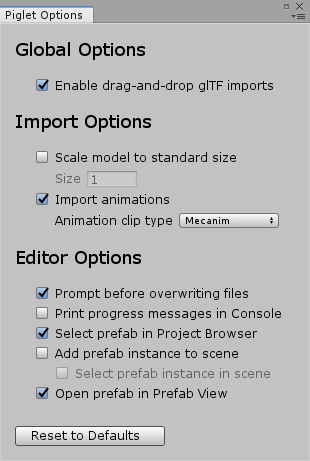
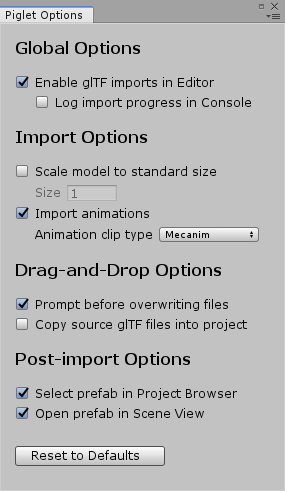
Piglet Options Window: update screenshot and text [update]

diff --git a/index.html b/index.html
@@ -242,8 +242,12 @@
 </thead>
 <tbody>
 <tr class="odd">
-<td style="text-align: left;"><code>Enable drag-and-drop glTF import</code></td>
-<td style="text-align: left;">Enable/disable automatic glTF imports when dragging .gltf/.glb/.zip files onto the Project Browser window</td>
+<td style="text-align: left;"><code>Enable glTF imports in Editor</code></td>
+<td style="text-align: left;">Enable/disable automatic glTF imports when adding new .gltf/.glb/.zip files to the project</td>
+</tr>
+<tr class="even">
+<td style="text-align: left;"><code>Log import progress in Console</code></td>
+<td style="text-align: left;">Log progress messages to Unity Console window during glTF imports (useful for debugging)</td>
 </tr>
 </tbody>
 </table>
@@ -275,7 +279,7 @@
 </tbody>
 </table>
 <table>
-<caption>Editor Options</caption>
+<caption>Drag-and-Drop Options</caption>
 <thead>
 <tr class="header">
 <th style="text-align: left;">Option</th>
@@ -288,24 +292,27 @@
 <td style="text-align: left;">Show confirmation prompt if glTF import directory already exists</td>
 </tr>
 <tr class="even">
-<td style="text-align: left;"><code>Print progress messages in Console</code></td>
-<td style="text-align: left;">Log progress messages to Unity Console window during glTF imports (useful for debugging)</td>
+<td style="text-align: left;"><code>Copy source glTF files into project</code></td>
+<td style="text-align: left;">Copy dragged-and-dropped glTF file/folder into project before performing glTF import. By default, only the Piglet-generated import directory is added to the project.</td>
 </tr>
+</tbody>
+</table>
+<table>
+<caption>Post-import Options</caption>
+<thead>
+<tr class="header">
+<th style="text-align: left;">Option</th>
+<th style="text-align: left;">Description</th>
+</tr>
+</thead>
+<tbody>
 <tr class="odd">
 <td style="text-align: left;"><code>Select prefab in Project Browser</code></td>
 <td style="text-align: left;">After a glTF import has completed, select/highlight the generated prefab in the Project Browser window</td>
 </tr>
 <tr class="even">
-<td style="text-align: left;"><code>Add prefab instance to scene</code></td>
-<td style="text-align: left;">After a glTF import has completed, add the generated prefab to the current Unity scene, as a child of the currently selected game object. If no game object is selected in the scene, add the prefab at the root of the scene instead.</td>
-</tr>
-<tr class="odd">
-<td style="text-align: left;"><code>Select prefab instance in scene</code></td>
-<td style="text-align: left;">Select/highlight the prefab in the scene hierarchy after adding it to the scene</td>
-</tr>
-<tr class="even">
-<td style="text-align: left;"><code>Open prefab in Prefab View</code></td>
-<td style="text-align: left;">After a glTF import has completed, open the generated prefab in the Prefab View. (This is equivalent to double-clicking the prefab in the Project Browser.)</td>
+<td style="text-align: left;"><code>Open prefab in Scene View</code></td>
+<td style="text-align: left;">After a glTF import has completed, open the generated prefab in the Scene View tab. (This is equivalent to double-clicking the prefab in the Project Browser.)</td>
 </tr>
 </tbody>
 </table>

diff --git a/index.md b/index.md
@@ -328,9 +328,10 @@ menu.
 
 ![](images/piglet-options-window.png)
 
-  Option                                 Description
-  -------------------------------------- ----------------------------------------------------------------------------------------------------------------------------------------------------------------------------------------------------------------------------------------
-  `Enable drag-and-drop glTF import`     Enable/disable automatic glTF imports when dragging .gltf/.glb/.zip files onto the Project Browser window
+  Option                           Description
+  -------------------------------- ----------------------------------------------------------------------------------------------------------------------------------------------------------------------------------------------------------------------------------------
+  `Enable glTF imports in Editor`  Enable/disable automatic glTF imports when adding new .gltf/.glb/.zip files to the project
+  `Log import progress in Console` Log progress messages to Unity Console window during glTF imports (useful for debugging)
   
   : Global Options
 
@@ -346,13 +347,16 @@ menu.
   Option                                 Description
   -------------------------------------- ----------------------------------------------------------------------------------------------------------------------------------------------------------------------------------------------------------------------------------------
   `Prompt before overwriting files`      Show confirmation prompt if glTF import directory already exists
-  `Print progress messages in Console`   Log progress messages to Unity Console window during glTF imports (useful for debugging)
-  `Select prefab in Project Browser`     After a glTF import has completed, select/highlight the generated prefab in the Project Browser window
-  `Add prefab instance to scene`         After a glTF import has completed, add the generated prefab to the current Unity scene, as a child of the currently selected game object. If no game object is selected in the scene, add the prefab at the root of the scene instead.
-  `Select prefab instance in scene`      Select/highlight the prefab in the scene hierarchy after adding it to the scene
-  `Open prefab in Prefab View`           After a glTF import has completed, open the generated prefab in the Prefab View. (This is equivalent to double-clicking the prefab in the Project Browser.)
+  `Copy source glTF files into project`  Copy dragged-and-dropped glTF file/folder into project before performing glTF import. By default, only the Piglet-generated import directory is added to the project.
   
-  : Editor Options
+  : Drag-and-Drop Options
+
+  Option                                 Description
+  -------------------------------------- ----------------------------------------------------------------------------------------------------------------------------------------------------------------------------------------------------------------------------------------
+  `Select prefab in Project Browser`     After a glTF import has completed, select/highlight the generated prefab in the Project Browser window
+  `Open prefab in Scene View`            After a glTF import has completed, open the generated prefab in the Scene View tab. (This is equivalent to double-clicking the prefab in the Project Browser.)
+
+  : Post-import Options
 
 # Runtime Imports
 
